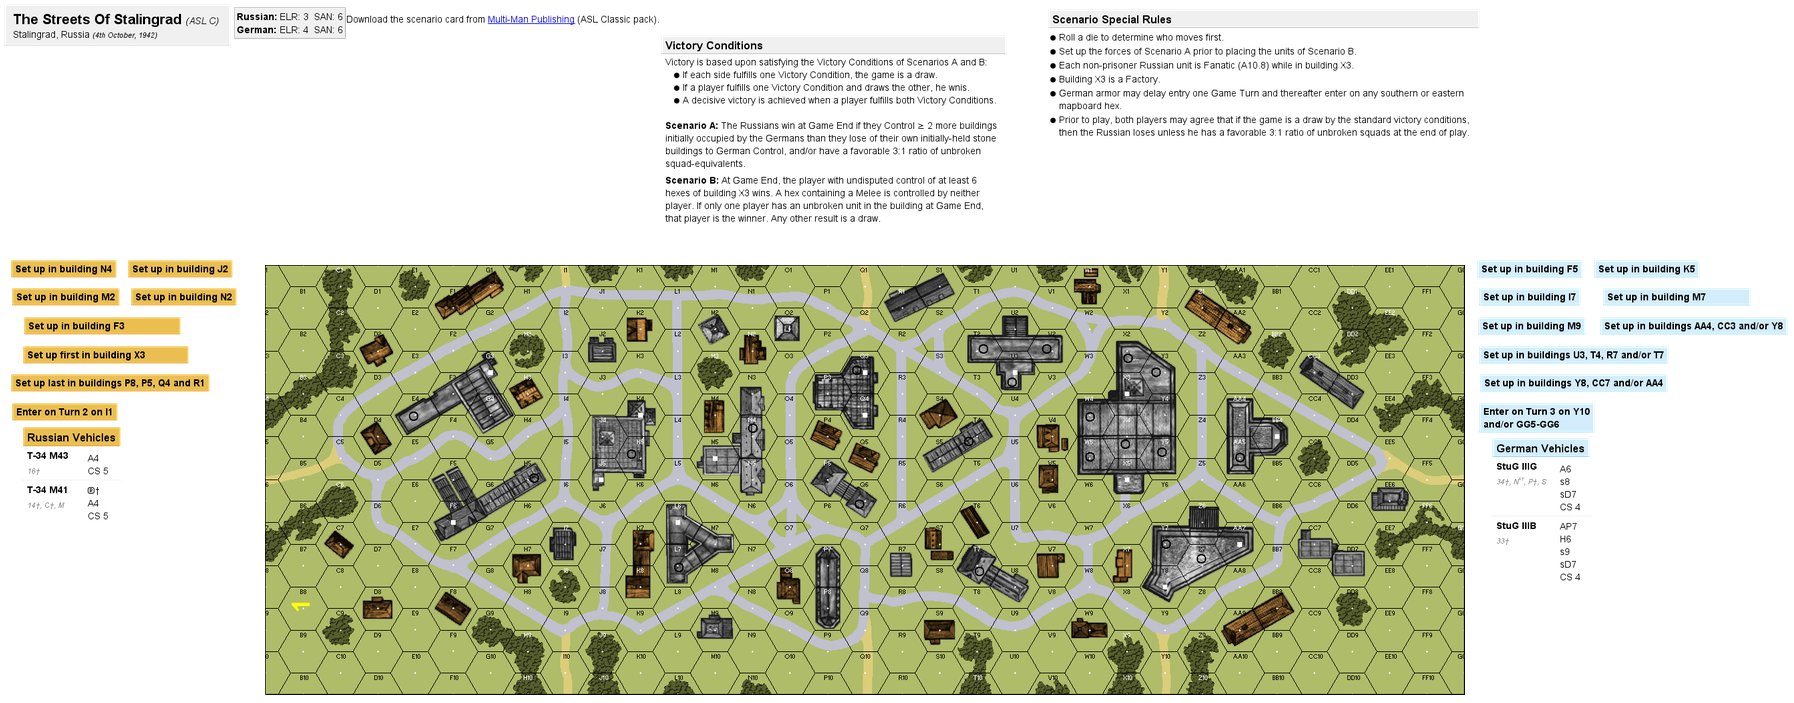
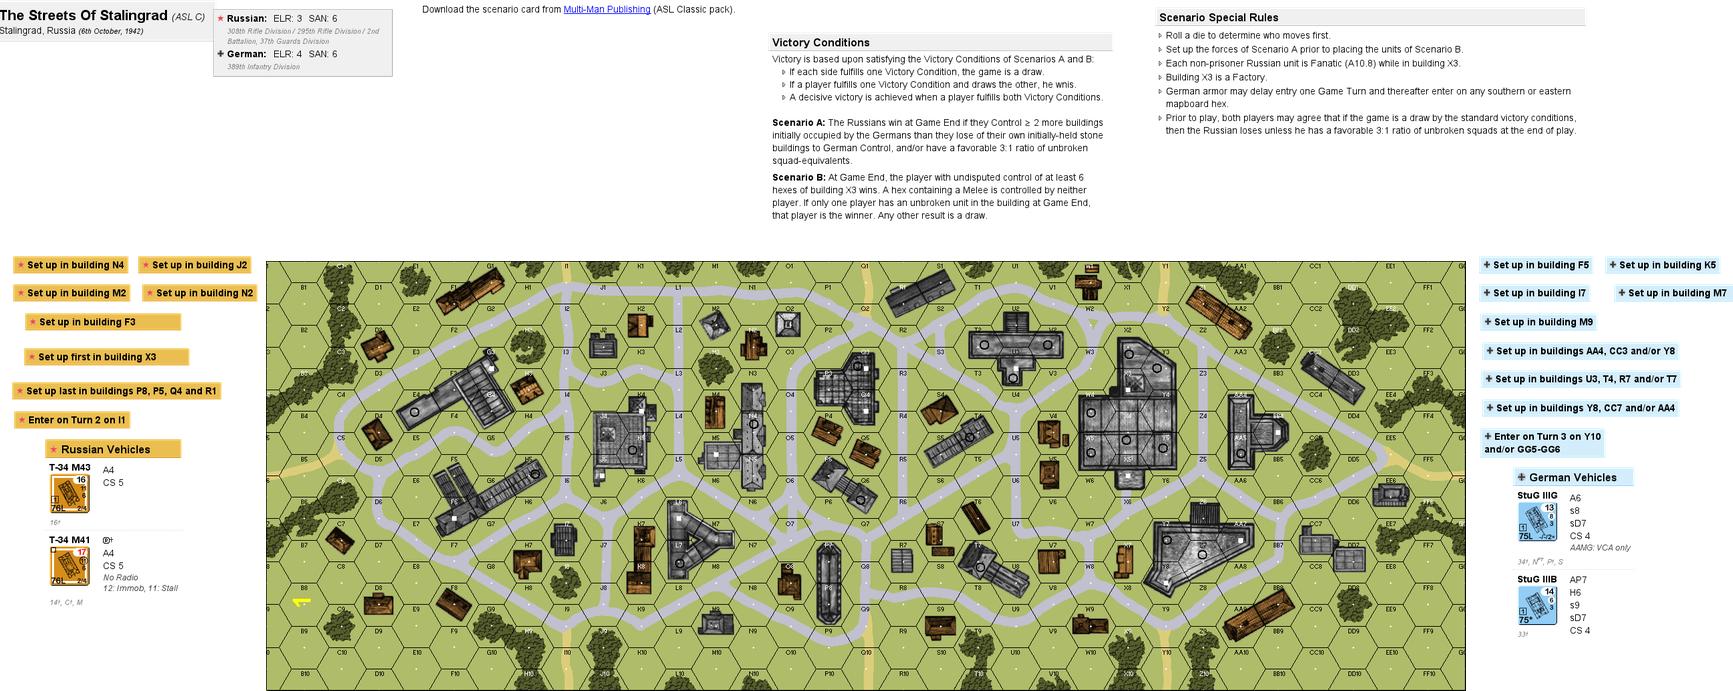
Default to showing images in snippets, and using custom list bullets.

diff --git a/vasl_templates/webapp/static/help/index.html b/vasl_templates/webapp/static/help/index.html
@@ -188,20 +188,6 @@ We now want to create labels in the VASL scenario for all this information. Choo
 <img src="images/quick-start/updated-scenario.png" class="preview" style="margin:0.5em 0 0 2em;"> <br>
 In particular, note the data tables for the vehicles, which contain useful information that you can refer to during your game.
 
-<a name="qs-include-pictures"></a>
-<h2> Including pictures in the labels </h2>
-
-<p> <img src="images/quick-start/user-settings.png" class="preview" style="float:right;">
-We can pretty-up the labels by including pictures in them. Open the <em>User Settings</em> dialog and turn on the <em>Images in scenarios</em> settings.
-<p> Update the VASL scenario again (as above), open it again in VASSAL, and you will see that the labels now include nationality flags, and the vehicle data tables show the counter images: <br>
-<img src="images/quick-start/images-in-labels.png" class="preview" style="margin:0.5em 0 0 2em;">
-<div class="warning" style="width:60%;"> Because images can't be stored inside a VASL scenario file, if you turn these options on, you must choose where VASSAL will get the images from:
-    <ul>
-        <li> <span style="border-bottom:1px solid #ccc;">From this program</span>: the <em>VASL Templates</em> program must be running before you open the scenario in VASSAL. If you are playing with someone online, they must have the program running as well.
-            <li> <span style="border-bottom:1px solid #ccc;">From the internet</span>: you must have a working internet connection when you open the scenario in VASSAL. There will be a short delay when opening the scenario, as VASSAL downloads the images.
-    </ul>
-</div>
-
 </div>
 
 <!-- - - - - - - - - - - - - - - - - - - - - - - - - - - - - - - - - - -->

diff --git a/vasl_templates/webapp/static/user_settings.js b/vasl_templates/webapp/static/user_settings.js
@@ -1,7 +1,12 @@
 SCENARIO_IMAGES_SOURCE_THIS_PROGRAM = 1 ;
 SCENARIO_IMAGES_SOURCE_INTERNET = 2 ;
 
-DEFAULT_USER_SETTINGS = { "scenario-images-source": SCENARIO_IMAGES_SOURCE_INTERNET } ;
+DEFAULT_USER_SETTINGS = {
+    "scenario-images-source": SCENARIO_IMAGES_SOURCE_INTERNET,
+    "include-vasl-images-in-snippets": true,
+    "include-flags-in-snippets": true,
+    "custom-list-bullets": true,
+} ;
 gUserSettings = Cookies.getJSON( "user-settings" ) || DEFAULT_USER_SETTINGS ;
 
 USER_SETTINGS = {

diff --git a/vasl_templates/webapp/tests/test_user_settings.py b/vasl_templates/webapp/tests/test_user_settings.py
@@ -32,19 +32,6 @@ def test_include_vasl_images_in_snippets( webapp, webdriver ):
     set_player( 1, "german" )
     add_vo( webdriver, "vehicles", 1, "PzKpfw IB" )
 
-    # enable "show VASL images in snippets"
-    select_menu_option( "user_settings" )
-    elem = find_child( ".ui-dialog.user-settings input[name='include-vasl-images-in-snippets']" )
-    assert not elem.is_selected()
-    elem.click()
-    click_dialog_button( "OK" )
-    _check_cookies( webdriver, "include-vasl-images-in-snippets", True )
-
-    # make sure that it took effect
-    snippet_btn = find_child( "button[data-id='ob_vehicles_1']" )
-    snippet_btn.click()
-    wait_for_clipboard( 2, "/counter/2524/front", contains=True )
-
     # disable "show VASL images in snippets"
     select_menu_option( "user_settings" )
     elem = find_child( ".ui-dialog.user-settings input[name='include-vasl-images-in-snippets']" )
@@ -54,8 +41,21 @@ def test_include_vasl_images_in_snippets( webapp, webdriver ):
     _check_cookies( webdriver, "include-vasl-images-in-snippets", False )
 
     # make sure that it took effect
+    snippet_btn = find_child( "button[data-id='ob_vehicles_1']" )
     snippet_btn.click()
     wait_for_clipboard( 2, "/counter/2524/front", contains=False )
+
+    # enable "show VASL images in snippets"
+    select_menu_option( "user_settings" )
+    elem = find_child( ".ui-dialog.user-settings input[name='include-vasl-images-in-snippets']" )
+    assert not elem.is_selected()
+    elem.click()
+    click_dialog_button( "OK" )
+    _check_cookies( webdriver, "include-vasl-images-in-snippets", True )
+
+    # make sure that it took effect
+    snippet_btn.click()
+    wait_for_clipboard( 2, "/counter/2524/front", contains=True )
 
 # ---------------------------------------------------------------------
 
@@ -72,27 +72,6 @@ def test_include_flags_in_snippets( webapp, webdriver ):
     sortable = find_child( "#ob_setups-sortable_1" )
     add_simple_note( sortable, "OB setup note", None )
 
-    # enable "show flags in snippets"
-    select_menu_option( "user_settings" )
-    elem = find_child( ".ui-dialog.user-settings input[name='include-flags-in-snippets']" )
-    assert not elem.is_selected()
-    elem.click()
-    click_dialog_button( "OK" )
-    _check_cookies( webdriver, "include-flags-in-snippets", True )
-
-    # make sure that it took effect
-    ob_setup_snippet_btn = find_child( "li img.snippet", sortable )
-    ob_setup_snippet_btn.click()
-    wait_for_clipboard( 2, "/flags/german", contains=True )
-
-    # make sure it also affects vehicle/ordnance snippets
-    ob_vehicles_snippet_btn = find_child( "button.generate[data-id='ob_vehicles_1']" )
-    ob_vehicles_snippet_btn.click()
-    wait_for_clipboard( 2, "/flags/german", contains=True )
-    ob_ordnance_snippet_btn = find_child( "button.generate[data-id='ob_ordnance_1']" )
-    ob_ordnance_snippet_btn.click()
-    wait_for_clipboard( 2, "/flags/german", contains=True )
-
     # disable "show flags in snippets"
     select_menu_option( "user_settings" )
     elem = find_child( ".ui-dialog.user-settings input[name='include-flags-in-snippets']" )
@@ -102,14 +81,35 @@ def test_include_flags_in_snippets( webapp, webdriver ):
     _check_cookies( webdriver, "include-flags-in-snippets", False )
 
     # make sure that it took effect
+    ob_setup_snippet_btn = find_child( "li img.snippet", sortable )
     ob_setup_snippet_btn.click()
     wait_for_clipboard( 2, "/flags/german", contains=False )
 
     # make sure it also affects vehicle/ordnance snippets
+    ob_vehicles_snippet_btn = find_child( "button.generate[data-id='ob_vehicles_1']" )
     ob_vehicles_snippet_btn.click()
     wait_for_clipboard( 2, "/flags/german", contains=False )
+    ob_ordnance_snippet_btn = find_child( "button.generate[data-id='ob_ordnance_1']" )
     ob_ordnance_snippet_btn.click()
     wait_for_clipboard( 2, "/flags/german", contains=False )
+
+    # enable "show flags in snippets"
+    select_menu_option( "user_settings" )
+    elem = find_child( ".ui-dialog.user-settings input[name='include-flags-in-snippets']" )
+    assert not elem.is_selected()
+    elem.click()
+    click_dialog_button( "OK" )
+    _check_cookies( webdriver, "include-flags-in-snippets", True )
+
+    # make sure that it took effect
+    ob_setup_snippet_btn.click()
+    wait_for_clipboard( 2, "/flags/german", contains=True )
+
+    # make sure it also affects vehicle/ordnance snippets
+    ob_vehicles_snippet_btn.click()
+    wait_for_clipboard( 2, "/flags/german", contains=True )
+    ob_ordnance_snippet_btn.click()
+    wait_for_clipboard( 2, "/flags/german", contains=True )
 
 # ---------------------------------------------------------------------
 

diff --git a/vasl_templates/webapp/tests/test_vassal.py b/vasl_templates/webapp/tests/test_vassal.py
@@ -15,6 +15,7 @@ from vasl_templates.webapp.tests.utils import \
     new_scenario, set_player, find_child
 from vasl_templates.webapp.tests.test_scenario_persistence import load_scenario, load_scenario_params, save_scenario, \
     assert_scenario_params_complete
+from vasl_templates.webapp.tests.test_user_settings import set_user_settings
 
 # ---------------------------------------------------------------------
 
@@ -28,6 +29,7 @@ def test_full_update( webapp, webdriver ):
             .set_data_dir( "{REAL}" ) \
             .set_vo_notes_dir( "{TEST}" if enable_vo_notes else None )
         init_webapp( webapp, webdriver, vsav_persistence=1, no_app_config_snippet_params=1 )
+        _disable_snippet_images()
 
         # load the scenario fields
         SCENARIO_PARAMS = {
@@ -211,6 +213,7 @@ def test_latw_autocreate( webapp, webdriver ):
         # initialize
         webapp.control_tests.set_data_dir( "{REAL}" )
         init_webapp( webapp, webdriver, vsav_persistence=1 )
+        _disable_snippet_images()
 
         # check the VASL scenario
         fname = os.path.join( os.path.split(__file__)[0], "fixtures/update-vsav/empty.vsav" )
@@ -277,6 +280,7 @@ def test_latw_update( webapp, webdriver ):
         # initialize
         webapp.control_tests.set_data_dir( "{REAL}" )
         init_webapp( webapp, webdriver, vsav_persistence=1 )
+        _disable_snippet_images()
 
         # check the VASL scenario
         fname = os.path.join( os.path.split(__file__)[0], "fixtures/update-vsav/latw.vsav" )
@@ -360,6 +364,7 @@ def test_update_legacy_labels( webapp, webdriver ):
             .set_data_dir( "{REAL}" ) \
             .set_vo_notes_dir( "{TEST}" if enable_vo_notes else None )
         init_webapp( webapp, webdriver, vsav_persistence=1, scenario_persistence=1 )
+        _disable_snippet_images()
 
         # dump the VASL scenario
         # NOTE: We implemented snippet ID's in v0.5, this scenario is the "Hill 621" example from v0.4.
@@ -448,6 +453,7 @@ def test_update_legacy_latw_labels( webapp, webdriver ):
         # initialize
         webapp.control_tests.set_data_dir( "{REAL}" )
         init_webapp( webapp, webdriver, vsav_persistence=1, scenario_persistence=1 )
+        _disable_snippet_images()
 
         # dump the VASL scenario
         # NOTE: This scenario contains LATW labels created using v0.4 i.e. they have no snippet ID's.
@@ -529,6 +535,7 @@ def test_player_owned_labels( webapp, webdriver ):
         # initialize
         webapp.control_tests.set_data_dir( "{REAL}" )
         init_webapp( webapp, webdriver, vsav_persistence=1 )
+        _disable_snippet_images()
         load_scenario_params( {
             "scenario": {
                 "SCENARIO_NAME": "Player-owned labels",
@@ -956,3 +963,14 @@ def analyze_vsav( fname, expected_ob1, expected_ob2, expected_report ):
     if msg == prev_info_msg:
         msg = get_stored_msg( "_last-warning_" )
     assert all( e in msg for e in expected_report )
+
+def _disable_snippet_images():
+    """Disable images in snippets."""
+    # NOTE: These used to default to off, but we changed that to on (v1.9), and since this will cause many labels
+    # to update when we are not expecting them to (because they now have an image in them), we turn everything off
+    # before running tests.
+    set_user_settings( {
+        "include-vasl-images-in-snippets": False,
+        "include-flags-in-snippets": False,
+        "custom-list-bullets": False,
+    } )

diff --git a/vasl_templates/webapp/tests/test_vasl_extensions.py b/vasl_templates/webapp/tests/test_vasl_extensions.py
@@ -250,10 +250,10 @@ def test_bfp_extensions( webapp, webdriver ):
     btn.click()
     wait_for_clipboard( 2, re.compile(
         'Type 97A CHI-HA'
-        '.+<div class="note"'
+        '.+<td class="note"'
         '.+8\u2020, B\u2020<sup>1</sup>, C\u2020<sup>2</sup>'
         r'.+M3A1 Scout Car\(a\)'
-        '.+<div class="note"'
+        '.+<td class="note"'
         '.+&#x2756;'
         '.+17, A, C, AllM 34\u2020<sup>2</sup>, Jp A\u2020<sup>1</sup>, Ch F\u2020',
         re.DOTALL
@@ -312,14 +312,14 @@ def test_bfp_extensions2( webapp, webdriver ):
     btn.click()
     wait_for_clipboard( 2, re.compile(
         r'\bM5A1\b'
-        '.+<div class="note"'
+        '.+<td class="note"'
         '.+5\u2020, C\u2020<sup>2</sup>, F\u2020<sup>1</sup>, G, N, Y'
         r'.+\bM5A1F\b'
-        '.+<div class="note"'
+        '.+<td class="note"'
         '.+&#x2756;'
         '.+5\u2020, US C\u2020<sup>2</sup>, US F\u2020<sup>1</sup>, US G, US N, US Y, C'
         r'.+\bM5A1C\b'
-        '.+<div class="note"'
+        '.+<td class="note"'
         '.+&#x2756;'
         '.+5\u2020, US C\u2020<sup>2</sup>, US F\u2020<sup>1</sup>, US G, US N, US Y, A, B',
         re.DOTALL
@@ -383,7 +383,7 @@ def test_ffs_extensions( webapp, webdriver ):
     btn.click()
     wait_for_clipboard( 2, re.compile(
         'POA-CWS-H5'
-        '.+<div class="note"'
+        '.+<td class="note"'
         '.+&#x2756;'
         '.+5\u2020, C, M',
         re.DOTALL
@@ -409,7 +409,7 @@ def test_ffs_extensions( webapp, webdriver ):
     btn.click()
     wait_for_clipboard( 2, re.compile(
         r'M20\(L\) 75mm Recoilless Rifle'
-        '.+<div class="note"'
+        '.+<td class="note"'
         '.+&#x2756;'
         '.+25\u2020, K, M, O, P, R',
         re.DOTALL
